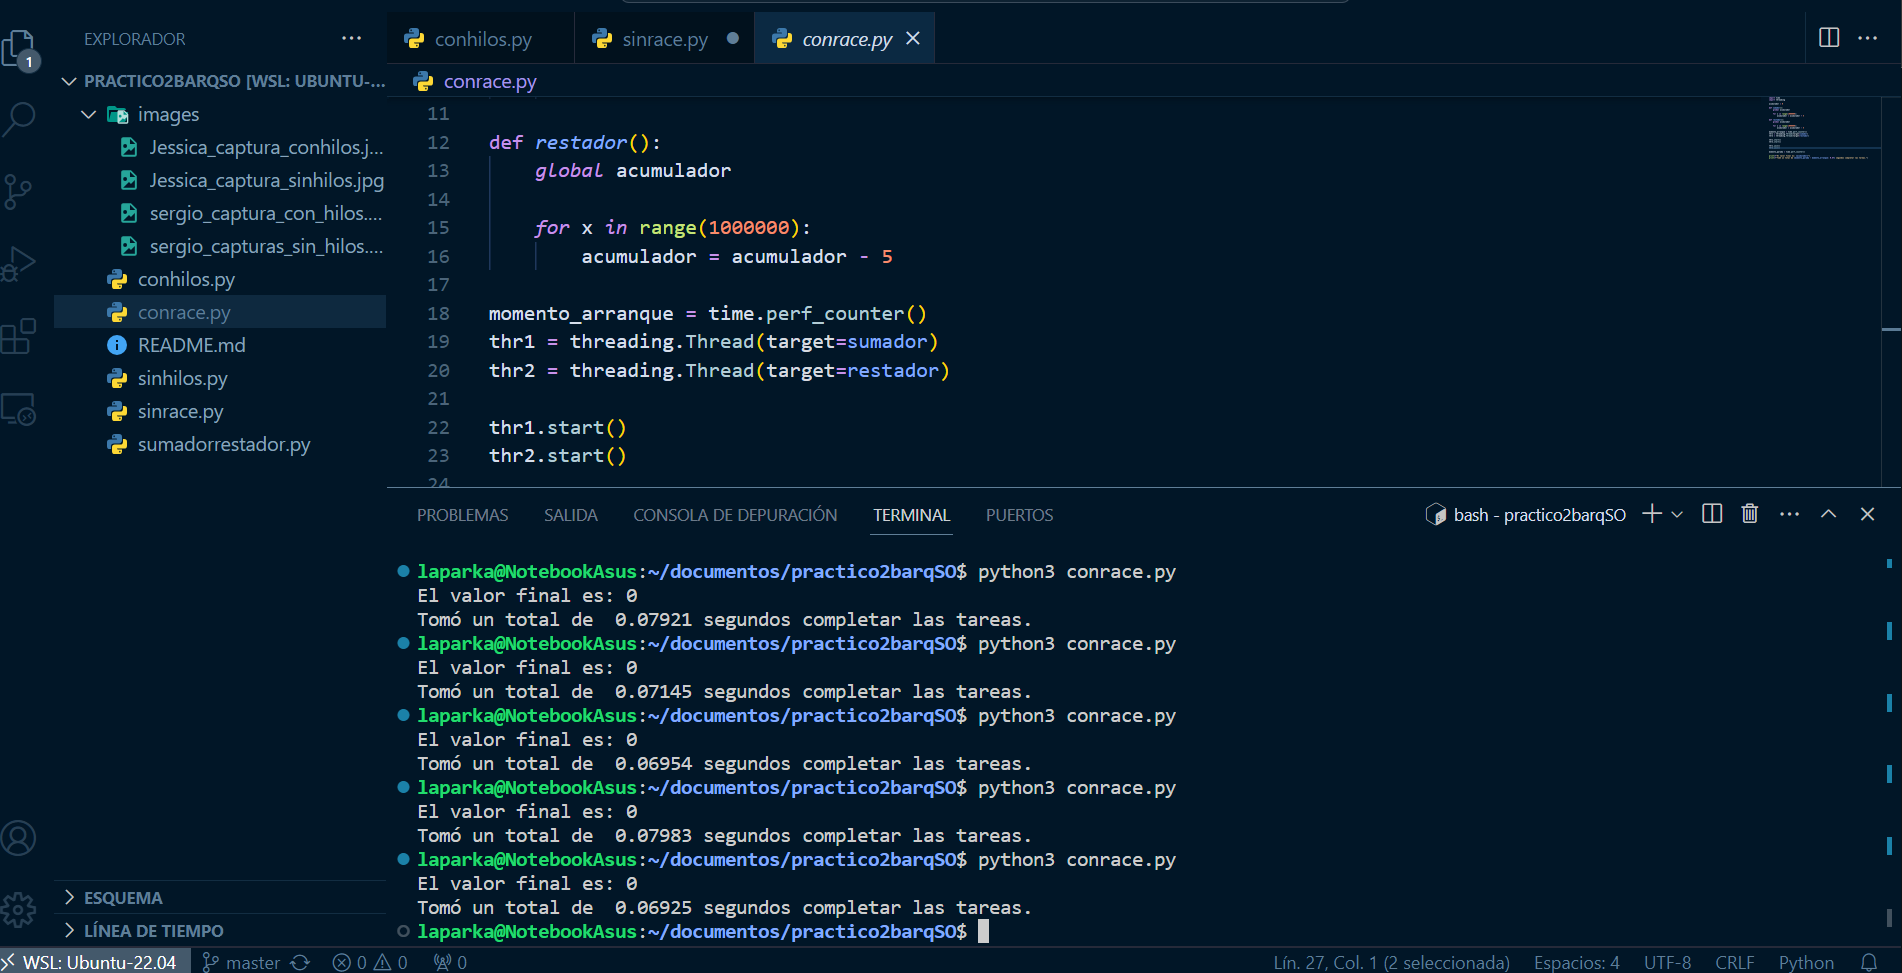
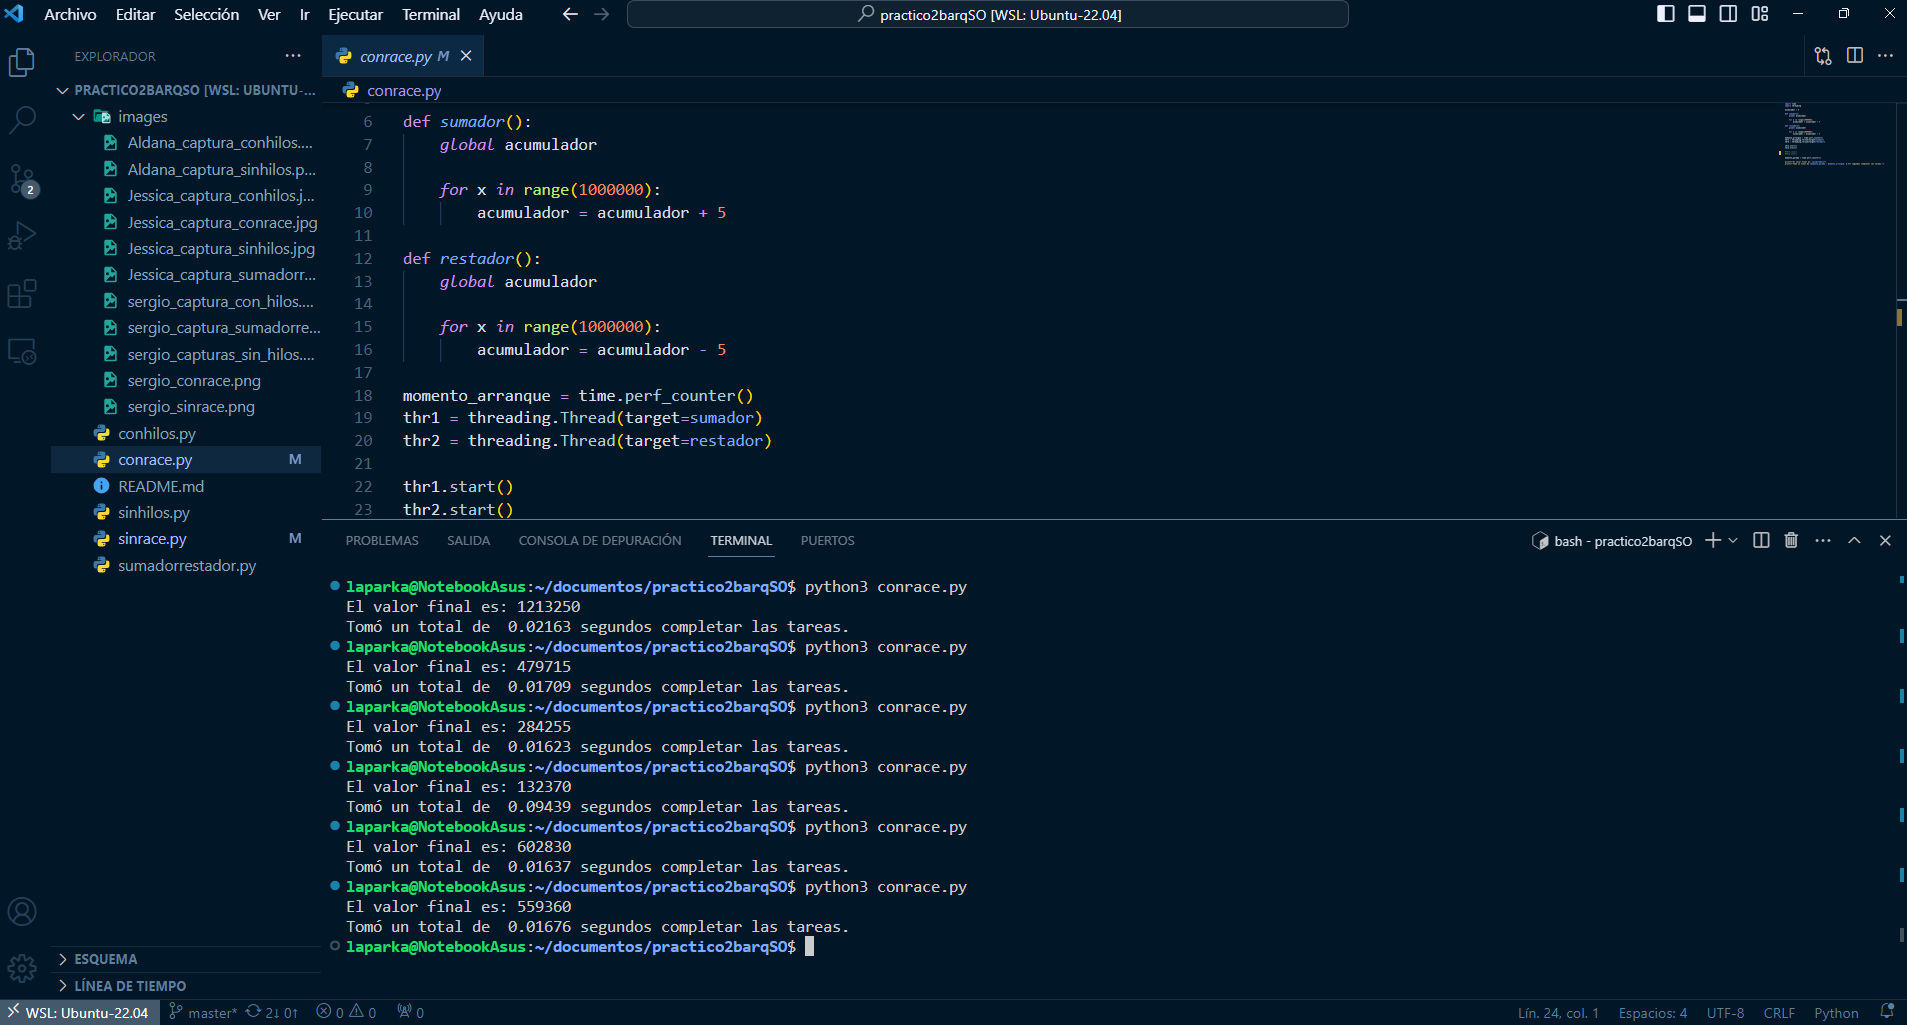
actualizacion de capturas con y sin race

diff --git a/sinrace.py b/sinrace.py
@@ -27,8 +27,8 @@ thr2 = threading.Thread(target=restador(proteccion,))
 thr1.start()
 thr2.start()
 
-thr1.join()
-thr2.join()
+#thr1.join()
+#thr2.join()
 
 momento_parada = time.perf_counter()
 

diff --git a/conrace.py b/conrace.py
@@ -22,8 +22,8 @@ thr2 = threading.Thread(target=restador)
 thr1.start()
 thr2.start()
 
-thr1.join()
-thr2.join()
+#thr1.join()
+#thr2.join()
 
 momento_parada = time.perf_counter()
 
